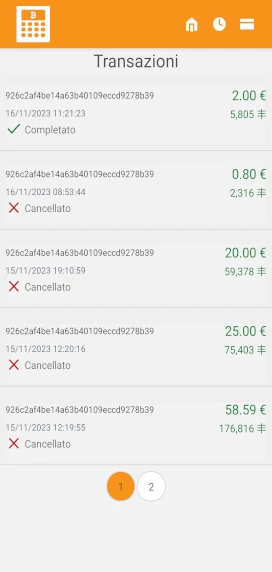
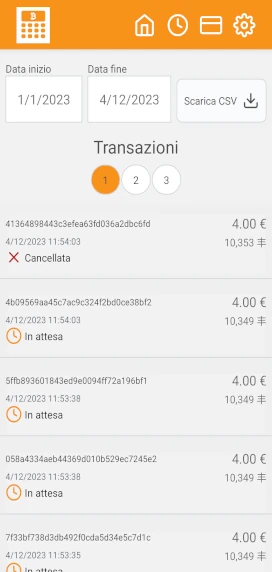
feat: new faqs

diff --git a/src/js/components/pages/Faq/Faq.tsx b/src/js/components/pages/Faq/Faq.tsx
@@ -9,6 +9,7 @@ import Accordion from '../../reusable/Accordion';
 import WalletScreenshot from '@/src/assets/images/app-screen-wallet.webp';
 import SettingsScreenshot from '@/src/assets/images/app-screen-settings.webp';
 import FactoryResetScreenshot from '@/src/assets/images/app-screen-factory.webp';
+import HistoryScreenshot from '@/src/assets/images/app-screen-history.webp';
 
 import Device from '../../reusable/Device';
 import Donate from '../../shared/Donate';
@@ -190,6 +191,43 @@ const Faq = () => (
               <strong>Come ripristino SatoshisPay?</strong>.
             </Paragraph.Leading>
           </Container.Container>
+        </Accordion>
+      </Container.Container>
+      <Container.Container className="border-t border-gray-200 p-2">
+        <Accordion
+          title={
+            <Heading.H2 className="text-xl pt-4">
+              Ho per sbaglio accettato una transazione poi cancellata. Come la
+              rimuovo dalla cronologia?
+            </Heading.H2>
+          }
+        >
+          <Paragraph.Leading>
+            La transazione risulterà in attesa per 24 ore, al termine delle
+            quali, se non avrà effettivamente ricevuto un incasso, verrà
+            cancellata automaticamente dall&apos;app.
+          </Paragraph.Leading>
+        </Accordion>
+      </Container.Container>
+      <Container.Container className="border-t border-gray-200 p-2">
+        <Accordion
+          title={
+            <Heading.H2 className="text-xl pt-4">
+              Come faccio ad esportare le transazioni?
+            </Heading.H2>
+          }
+        >
+          <Paragraph.Leading>
+            Per esportare le transazioni, sarà sufficiente andare nella pagina{' '}
+            <strong>&quot;Transazioni&quot;</strong> cliccando sull&apos; icona{' '}
+            <Icon.Clock size={24} className="inline" />. Da qui sarà possibile
+            selezionare le date di inizio e fine periodo per cui si vogliono
+            esportare le transazioni. Quindi cliccare su{' '}
+            <strong>&quot;Scarica CSV&quot;</strong>e verrà scaricato un file
+            CSV con tutte le transazioni del periodo selezionato nella cartella
+            Documenti del vostro dispositivo.
+          </Paragraph.Leading>
+          <Device.IPhone alt="wallet screenshot" image={HistoryScreenshot} />
         </Accordion>
       </Container.Container>
       <Container.Container className="border-t border-gray-200 p-2">
